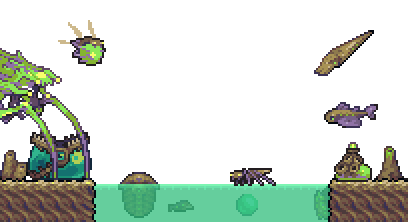
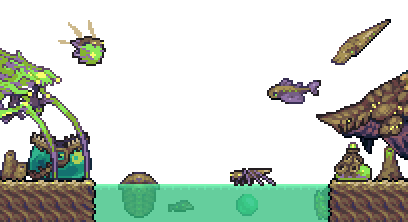
Guulper Eel and Acid Rain portrait updates

Changed region(s): [[0.7647, 0.3243, 1.0, 0.7297], [0.6471, 0.0811, 0.9706, 0.4865]]

diff --git a/NPCs/Abyss/GulperEelHead.cs b/NPCs/Abyss/GulperEelHead.cs
@@ -32,9 +32,11 @@ namespace CalamityMod.NPCs.Abyss
             {
                 Scale = 0.75f,
                 CustomTexturePath = "CalamityMod/ExtraTextures/Bestiary/GulperEel_Bestiary",
-                PortraitPositionXOverride = 40
+                PortraitPositionXOverride = 40,
+                PortraitPositionYOverride = 20
             };
-            value.Position.X += 20;
+            value.Position.X += 50;
+            value.Position.Y += 20;
             NPCID.Sets.NPCBestiaryDrawOffset[Type] = value;
         }
 
